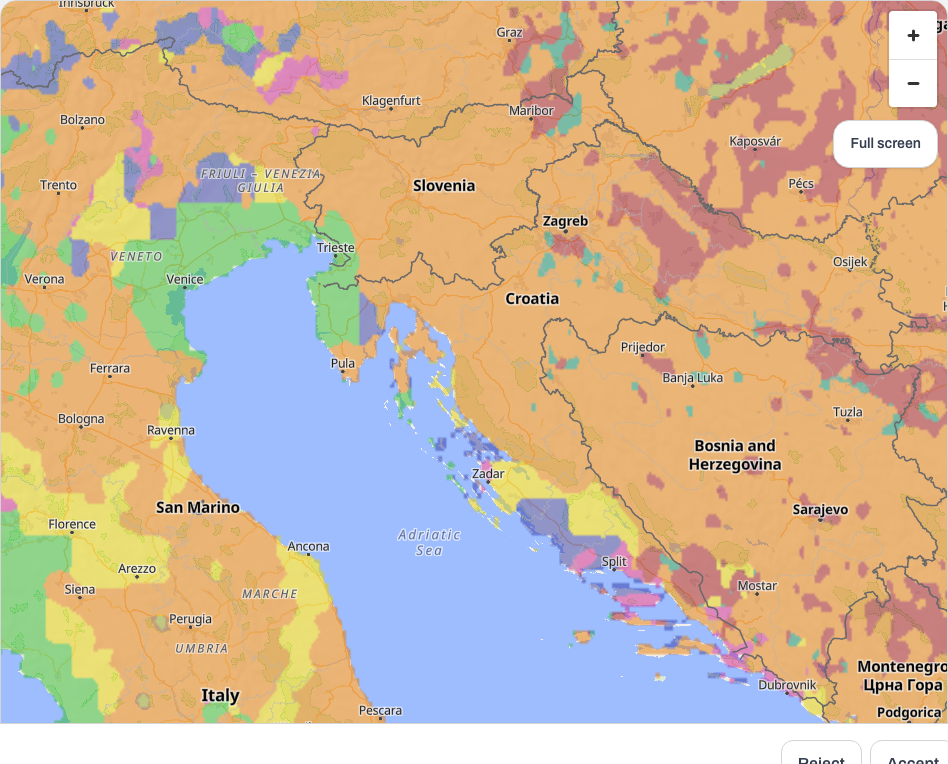
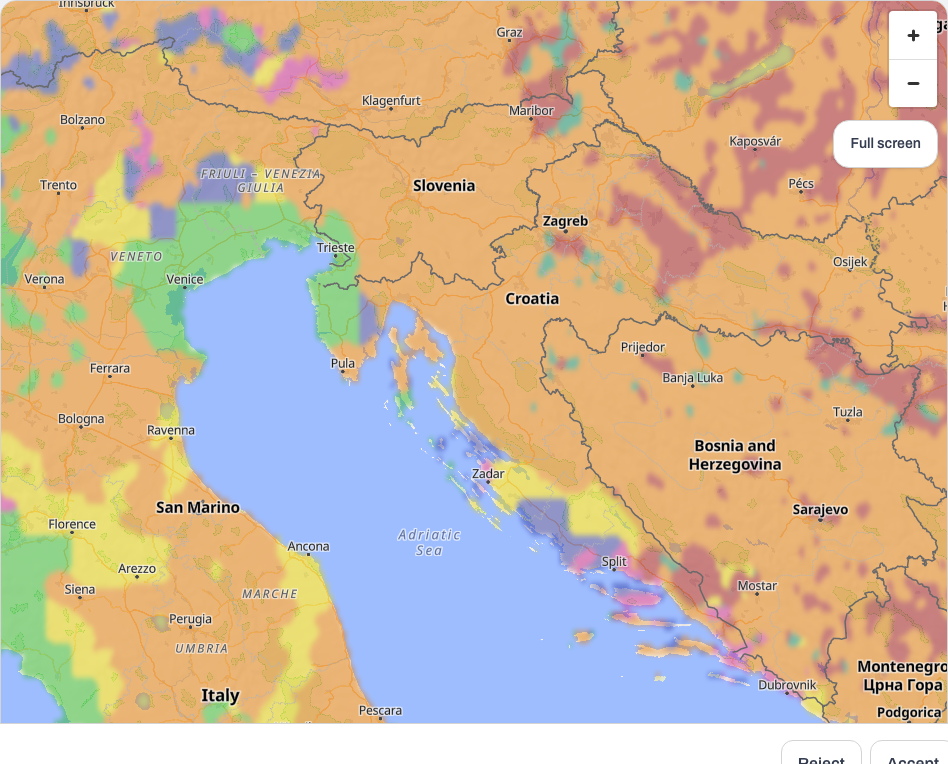
CAMP-530: легке розмиття фінальної картинки посухи (межа мʼякою кривою на z8)
Після мажоритарного фільтра й argmax ×2 — розмиття RGBA у премультиплікованій
альфі, ядро [1 4 6 4 1]/16 (~1 піксель сітки ×2), власне, а не ctx.filter
(у Safari його немає). Усередині класу колір рівно з палітри; змішані кольори
лише в смузі межі класів і краю покриття. Смуга Рабу й кластер біля Біхача лишаються.

diff --git a/apps/web/tests/unit/drought-overlay.spec.ts b/apps/web/tests/unit/drought-overlay.spec.ts
@@ -478,22 +478,38 @@ test.describe("paintSmoothOverlay", () => {
       mask.push(1);
     }
   cells[6 * W + 3] = 5;
-  for (const [r, c] of [[3, 15], [3, 16], [4, 15], [4, 16]]) mask[r * W + c] = 0;
+  for (const [r, c] of [3, 4, 5, 6].flatMap((r) => [14, 15, 16, 17].map((c) => [r, c]))) mask[r * W + c] = 0;
   const T2 = { width: W, height: H, lon0: 10, lat0: 53, pixel: 1, cells, mask };
   const px = (o: { data: Uint8ClampedArray; width: number }, r: number, c: number) =>
     Array.from(o.data.slice((r * o.width + c) * 4, (r * o.width + c) * 4 + 4));
   const F = SMOOTH_FACTOR;
 
-  test("🔴 every pixel is a palette colour or bare: nothing between two classes, and the lone cell is gone", () => {
-    // Mutation: in `paintSmoothOverlay` call `dropLoneCells` on nothing (use
-    // `cls` for `tidy`) — the lone 5 is painted and this fails.
+  const PURE = new Set([WANT[1], WANT[3], WANT[5], BARE].map((v) => v.join(",")));
+  const isPure = (v: number[]) => PURE.has(v.join(","));
+
+  test("🔴 inside a class the colour is the palette's, exactly; mixed colours live only in a band at the edge, and the lone cell is gone", () => {
+    // Mutation: in `paintSmoothOverlay` use `cls` for `tidy` (skip
+    // `dropLoneCells`) — a class-5 pixel is drawn in the lone cell and the
+    // `fives` count in the next test fails; THIS test is the blur's: set
+    // `EDGE_BLUR` to [1] — no pixel is mixed, the band is empty and it fails.
     const o = paintSmoothOverlay(tinyState(T2));
-    const seen = new Set<string>();
+    const mixed: Array<[number, number]> = [];
     for (let r = 0; r < o.height; r++)
-      for (let c = 0; c < o.width; c++) seen.add(px(o, r, c).join(","));
-    expect([...seen].sort()).toEqual(
-      [WANT[1], WANT[3], BARE].map((v) => v.join(",")).sort(),
-    );
+      for (let c = 0; c < o.width; c++) if (!isPure(px(o, r, c))) mixed.push([r, c]);
+    expect(mixed.length, "the edges are blurred: some pixels are not a palette colour").toBeGreaterThan(50);
+    // Every mixed pixel has pure pixels of two different kinds within 6 px,
+    // so it IS at an edge; nothing is mixed in the middle of a class.
+    for (const [r, c] of mixed) {
+      const kinds = new Set<string>();
+      for (let dr = -6; dr <= 6; dr++)
+        for (let dc = -6; dc <= 6; dc++) {
+          const rr = r + dr, cc = c + dc;
+          if (rr < 0 || cc < 0 || rr >= o.height || cc >= o.width) continue;
+          const v = px(o, rr, cc);
+          if (isPure(v)) kinds.add(v.join(","));
+        }
+      expect(kinds.size, `pixel (${r},${c}) is mixed with no edge near`).toBeGreaterThanOrEqual(2);
+    }
     expect(o.width).toBe(W * F);
   });
 
@@ -519,7 +535,7 @@ test.describe("paintSmoothOverlay", () => {
           Math.abs(row - a) <= 2 && Math.abs(col - b) <= 2;
         const calm =
           row >= 2 && row <= H - 3 && col >= 2 && col <= W - 3 &&
-          Math.abs(col - 9.5) >= 2.5 && !near(6, 3) && !near(3, 15) && !near(3, 16) && !near(4, 15) && !near(4, 16);
+          Math.abs(col - 9.5) >= 2.5 && !near(6, 3) && !(row >= 1 && row <= 8 && col >= 12);
         if (!calm) continue;
         checked++;
         const want = expectedPixel(T2, o.height, r, col);
@@ -545,8 +561,13 @@ test.describe("paintSmoothOverlay", () => {
     const n = 7;
     const cs: number[] = new Array(n * n).fill(2);
     for (let i = 0; i < 9; i++) cs[(2 + Math.floor(i / 3)) * n + 2 + (i % 3)] = ring[i];
+    // Without the edge blur (`[1]`), so a pixel is a class's own colour and
+    // "a class-5 pixel" means exactly that.
     const o = paintSmoothOverlay(
       tinyState({ width: n, height: n, lon0: 10, lat0: 50, pixel: 1, cells: cs, mask: cs.map(() => 1) }),
+      undefined,
+      undefined,
+      [1],
     );
     let fives = 0;
     for (let r = 0; r < o.height; r++)
@@ -576,11 +597,16 @@ test.describe("paintSmoothOverlay", () => {
       ((yTop - mercY(T2.lat0 - 6)) / (yTop - yBottom)) * horizontal.height;
     const firstRow = Math.ceil(edge - 0.5);
     const col = 4 * F;
-    expect(px(horizontal, firstRow - 1, col)).toEqual(WANT[3]);
-    expect(px(horizontal, firstRow, col)).toEqual(WANT[1]);
+    // The edge is blurred, so the two pixels beside it are mixed; the one on
+    // the class-3 side is nearer class 3's red, the other nearer class 1's.
+    const near3 = (v: number[]) => Math.abs(v[0] - WANT[3][0]) < Math.abs(v[0] - WANT[1][0]);
+    expect(near3(px(horizontal, firstRow - 1, col))).toBe(true);
+    expect(near3(px(horizontal, firstRow, col))).toBe(false);
+    expect(px(horizontal, firstRow - 4, col)).toEqual(WANT[3]);
+    expect(px(horizontal, firstRow + 3, col)).toEqual(WANT[1]);
     const vertical = bands(false);
-    expect(px(vertical, 5 * F, 10 * F - 1)).toEqual(WANT[3]);
-    expect(px(vertical, 5 * F, 10 * F)).toEqual(WANT[1]);
+    expect(near3(px(vertical, 5 * F, 10 * F - 1))).toBe(true);
+    expect(near3(px(vertical, 5 * F, 10 * F))).toBe(false);
   });
 
   test("the masked patch is bare at its middle, and the lone cell's class is still what the data says", () => {
@@ -593,12 +619,12 @@ test.describe("paintSmoothOverlay", () => {
     const lat = T2.lat0 - 6.5;
     const lone = readingAt(state, lat, T2.lon0 + 3.5);
     expect(lone.known && lone.value).toBe(5);
-    const patch = readingAt(state, T2.lat0 - 3.9, T2.lon0 + 15.9);
+    const patch = readingAt(state, T2.lat0 - 4.9, T2.lon0 + 15.9);
     expect(patch.known).toBe(false);
-    // Middle of the 2 × 2 masked patch (rows 3-4, cols 15-16) in output pixels:
+    // Middle of the 2 × 2 masked patch (rows 3-6, cols 14-17) in output pixels:
     const yTop = mercY(T2.lat0);
     const yBottom = mercY(T2.lat0 - T2.height * T2.pixel);
-    const r = Math.round(((yTop - mercY(T2.lat0 - 4)) / (yTop - yBottom)) * o.height);
+    const r = Math.round(((yTop - mercY(T2.lat0 - 5)) / (yTop - yBottom)) * o.height);
     expect(px(o, r, 16 * F)).toEqual(BARE);
   });
 
@@ -611,12 +637,9 @@ test.describe("paintSmoothOverlay", () => {
     };
     const o = paintSmoothOverlay(tinyState(T2), swapped, 3);
     expect(o.width).toBe(W * 3);
-    const seen = new Set<string>();
-    for (let r = 0; r < o.height; r++)
-      for (let c = 0; c < o.width; c++) seen.add(px(o, r, c).join(","));
-    expect([...seen].sort()).toEqual(
-      ["17,34,51,200", "68,85,102,255", "0,0,0,0"].sort(),
-    );
+    // Pure pixels, away from every edge, carry the swapped table's colours.
+    expect(px(o, 6 * 3, 2 * 3)).toEqual([17, 34, 51, 200]);
+    expect(px(o, 10 * 3, 17 * 3)).toEqual([68, 85, 102, 255]);
   });
 
   test("the shipped grid: the picture holds the seven classes' colours and bare, and nothing else", () => {
@@ -631,15 +654,38 @@ test.describe("paintSmoothOverlay", () => {
     const o = paintSmoothOverlay(s);
     expect(o.width).toBe(1280 * F);
     expect(o.coordinates[0]).toEqual([-18.5, 71.5]);
-    const seen = new Set<number>();
-    const u = new Uint32Array(o.data.buffer, o.data.byteOffset, o.data.length / 4);
-    for (const v of u) seen.add(v);
-    const want = new Set<number>([0]);
+    // 🔴 Replaces "eight colours": the picture is blurred at its edges, so
+    // the colours are the seven classes' and bare INSIDE, and mixed only in a
+    // band. Every pixel is a palette colour (or bare) or sits within 6 px of
+    // a pixel of a different colour; and the band is a minority.
+    const wantSet = new Set<number>([0]);
     for (const k of present) {
       const [r, g, b, a] = WANT[k];
-      want.add(new Uint32Array(Uint8Array.of(r, g, b, a).buffer)[0]);
+      wantSet.add(new Uint32Array(Uint8Array.of(r, g, b, a).buffer)[0]);
     }
-    expect([...seen].sort()).toEqual([...want].sort());
+    const u = new Uint32Array(o.data.buffer, o.data.byteOffset, o.data.length / 4);
+    let mixed = 0;
+    let stray = 0;
+    for (let y = 0; y < o.height; y++)
+      for (let x = 0; x < o.width; x++) {
+        const v = u[y * o.width + x];
+        if (wantSet.has(v)) continue;
+        mixed++;
+        let edge = false;
+        for (let dy = -6; dy <= 6 && !edge; dy++)
+          for (let dx = -6; dx <= 6; dx++) {
+            const yy = y + dy, xx = x + dx;
+            if (yy < 0 || xx < 0 || yy >= o.height || xx >= o.width) continue;
+            const q = u[yy * o.width + xx];
+            if (wantSet.has(q) && q !== v) { edge = true; break; }
+          }
+        if (!edge) stray++;
+      }
+    // Only the middle of a feature narrower than the band (a one-cell strip)
+    // can have no pure pixel near it; that is a fraction of a percent.
+    expect(stray / mixed, "mixed pixels with no pure pixel within 6 px").toBeLessThan(0.005);
+    expect(mixed, "there is a blurred band").toBeGreaterThan(10_000);
+    expect(mixed / u.length, "the band is a minority of the picture").toBeLessThan(0.15);
   });
 
   test("the panel says the picture is smoothed and that a campsite's class is read from the data", () => {

diff --git a/apps/web/src/lib/drought-smooth.ts b/apps/web/src/lib/drought-smooth.ts
@@ -270,3 +270,104 @@ export function smoothRaster(
   }
   return out;
 }
+
+/**
+ * The last blur, on the finished picture: how wide, as weights along one axis.
+ * [1 4 6 4 1] / 16 is a radius of about one pixel of the ×2 grid (σ = 1 px).
+ */
+export const EDGE_BLUR: readonly number[] = [1 / 16, 4 / 16, 6 / 16, 4 / 16, 1 / 16];
+
+/**
+ * CAMP-530 — class codes to RGBA, with the edges between classes blurred.
+ *
+ * 🔴 BLURRED IN PREMULTIPLIED ALPHA, so a class beside bare ground fades to
+ * transparent in its OWN colour and not through grey. A pixel whose whole
+ * neighbourhood is one class (or all bare) is written as that class's exact
+ * colour — mixing happens only in the band at a boundary, `kernel.length`
+ * pixels wide. Done here, in plain arrays, rather than with `ctx.filter`:
+ * Safari's canvas has no `filter`, and a picture that is smooth in two
+ * browsers and blocky in the third is worse than one that is the same in all.
+ * Outside the picture counts as the pixel's own edge value.
+ */
+export function paintBlurred(
+  picked: Uint8Array,
+  width: number,
+  height: number,
+  palette: ReadonlyMap<number, readonly [number, number, number, number]>,
+  kernel: readonly number[] = EDGE_BLUR,
+): Uint8ClampedArray {
+  const reach = (kernel.length - 1) / 2;
+  const out = new Uint8ClampedArray(width * height * 4);
+  // The palette as a flat table by class code: a Map lookup per tap is the
+  // slow part of a 6.8-million-pixel picture.
+  const table = new Uint8Array(256 * 4);
+  const has = new Uint8Array(256);
+  for (const [k, v] of palette) {
+    if (k < 0 || k > 255) continue;
+    has[k] = 1;
+    table.set(v as ArrayLike<number>, k * 4);
+  }
+  // bad[i]: the class changes between pixel i and the one to its right or below.
+  const bad = new Uint8Array(width * height);
+  for (let y = 0; y < height; y++) {
+    for (let x = 0; x < width; x++) {
+      const i = y * width + x;
+      if ((x + 1 < width && picked[i] !== picked[i + 1]) || (y + 1 < height && picked[i] !== picked[i + width])) bad[i] = 1;
+    }
+  }
+  // near[i]: a change within `reach + 1` pixels in x and y. Two window passes.
+  const win = reach + 1;
+  const hor = new Uint8Array(width * height);
+  const near = new Uint8Array(width * height);
+  const count = new Int32Array(Math.max(width, height) + 1);
+  for (let y = 0; y < height; y++) {
+    for (let x = 0; x < width; x++) count[x + 1] = count[x] + bad[y * width + x];
+    for (let x = 0; x < width; x++) {
+      const lo = Math.max(0, x - win);
+      const hi = Math.min(width, x + win + 1);
+      hor[y * width + x] = count[hi] - count[lo] > 0 ? 1 : 0;
+    }
+  }
+  for (let x = 0; x < width; x++) {
+    for (let y = 0; y < height; y++) count[y + 1] = count[y] + hor[y * width + x];
+    for (let y = 0; y < height; y++) {
+      const lo = Math.max(0, y - win);
+      const hi = Math.min(height, y + win + 1);
+      near[y * width + x] = count[hi] - count[lo] > 0 ? 1 : 0;
+    }
+  }
+  for (let y = 0; y < height; y++) {
+    for (let x = 0; x < width; x++) {
+      const i = y * width + x;
+      if (!near[i]) {
+        const k = picked[i];
+        if (has[k]) out.set(table.subarray(k * 4, k * 4 + 4), i * 4);
+        continue;
+      }
+      let sa = 0;
+      let sr = 0;
+      let sg = 0;
+      let sb = 0;
+      for (let j = 0; j < kernel.length; j++) {
+        const yy = Math.min(height - 1, Math.max(0, y + j - reach));
+        for (let k = 0; k < kernel.length; k++) {
+          const xx = Math.min(width - 1, Math.max(0, x + k - reach));
+          const q = picked[yy * width + xx];
+          if (!has[q]) continue;
+          const w = kernel[j] * kernel[k] * table[q * 4 + 3];
+          sa += w;
+          sr += w * table[q * 4];
+          sg += w * table[q * 4 + 1];
+          sb += w * table[q * 4 + 2];
+        }
+      }
+      if (sa > 0) {
+        out[i * 4] = sr / sa;
+        out[i * 4 + 1] = sg / sa;
+        out[i * 4 + 2] = sb / sa;
+        out[i * 4 + 3] = sa;
+      }
+    }
+  }
+  return out;
+}

diff --git a/apps/web/src/lib/drought.ts b/apps/web/src/lib/drought.ts
@@ -1,6 +1,6 @@
 import { CEMS_NOTICE, RESERVED_WORDS } from './cems';
 import { DROUGHT_COLOURS, effectiveOpacity, hexRgb } from './drought-colours';
-import { NONE, SMOOTH_FACTOR, dropLoneCells, smoothRaster } from './drought-smooth';
+import { EDGE_BLUR, NONE, SMOOTH_FACTOR, dropLoneCells, paintBlurred, smoothRaster } from './drought-smooth';
 
 // How each class is drawn lives in `./drought-colours` — a module with no
 // imports, so the palette guard can read it. Re-exported here: this is still
@@ -551,11 +551,11 @@ export function paintOverlay(
  * 🔴 FOR THE EYE AND FOR NOTHING ELSE. What a campsite is told still comes
  * from `readingAt` on the raw arrays; this picture is never read back.
  *
- * 🔴 EVERY PIXEL IS ONE CLASS'S OWN COLOUR OR BARE. The class of a pixel is
- * the winner of a vote (`drought-smooth.ts`), and the colour is looked up
- * from it, so nothing between two classes is ever mixed here. (The GPU's
- * `linear` resampling blends the one-pixel seam when it scales, which is
- * antialiasing and not a colour of the palette.)
+ * 🔴 INSIDE A CLASS THE COLOUR IS THE PALETTE'S, EXACTLY. The class of a pixel
+ * is the winner of a vote (`drought-smooth.ts`) and the colour is looked up
+ * from it; then the finished RGBA picture is blurred (`paintBlurred`, about a
+ * pixel of the ×2 grid), so colours are mixed ONLY in a band at a boundary
+ * between classes or at the edge of coverage.
  *
  * The class of each source cell is asked of `readingAt` at the cell's centre
  * — the mask is applied by the one function that applies it — and a value
@@ -565,6 +565,8 @@ export function paintSmoothOverlay(
   state: Extract<DroughtState, { kind: 'current' }>,
   colours: Readonly<Record<number, { hex: string; alpha: number }>> = DROUGHT_COLOURS,
   factor: number = SMOOTH_FACTOR,
+  /** The edge blur's weights; `[1]` is none, and leaves every pixel one class's own colour. */
+  blur: readonly number[] = EDGE_BLUR,
 ): DroughtOverlay {
   const { grid } = state.meta;
   const north = grid.lat0;
@@ -605,15 +607,7 @@ export function paintSmoothOverlay(
     const [r, g, b] = hexRgb(style.hex);
     rgba.set(Number(value), [r, g, b, style.alpha]);
   }
-  const data = new Uint8ClampedArray(outW * rows * 4);
-  for (let i = 0; i < picked.length; i++) {
-    const style = rgba.get(picked[i]);
-    if (!style) continue;
-    data[i * 4] = style[0];
-    data[i * 4 + 1] = style[1];
-    data[i * 4 + 2] = style[2];
-    data[i * 4 + 3] = style[3];
-  }
+  const data = paintBlurred(picked, outW, rows, rgba, blur);
   return {
     width: outW,
     height: rows,
